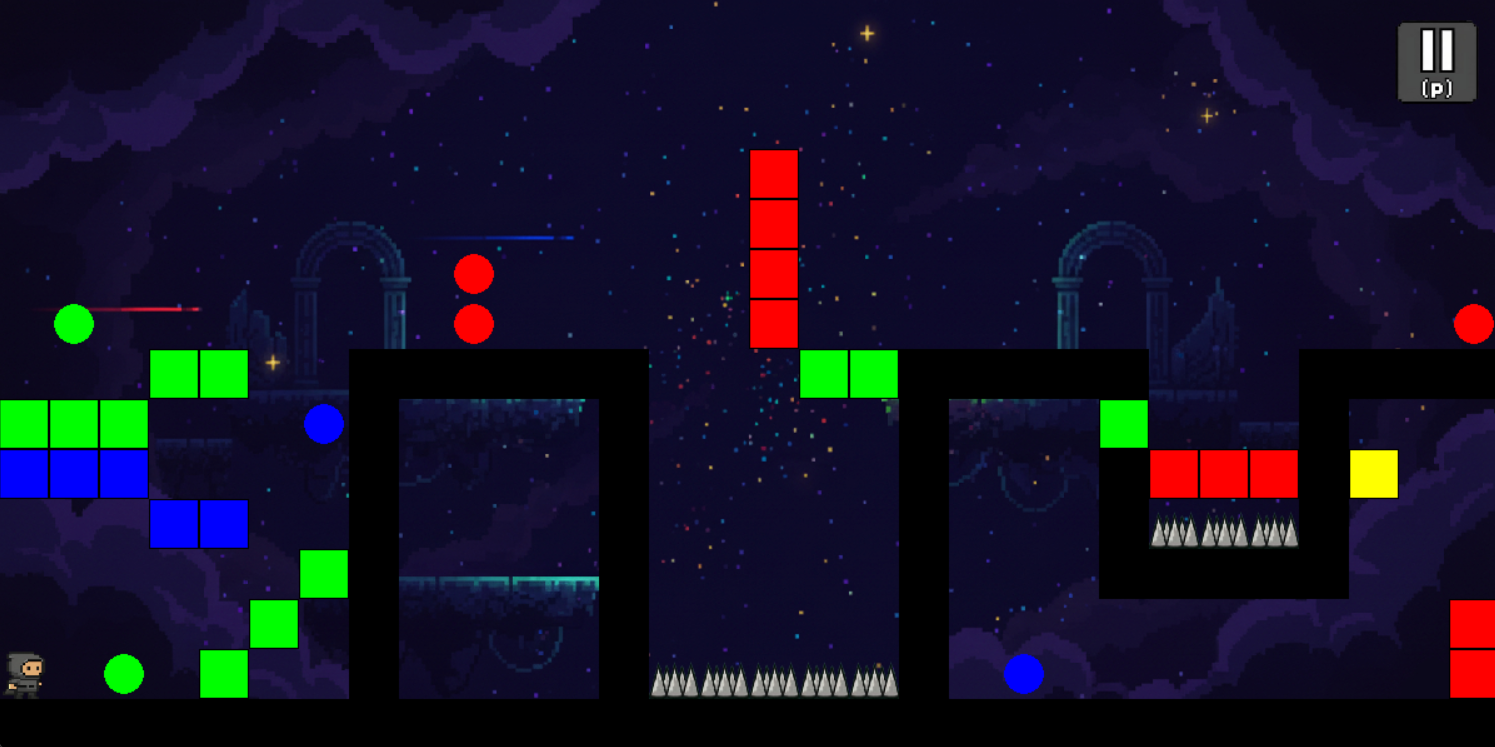
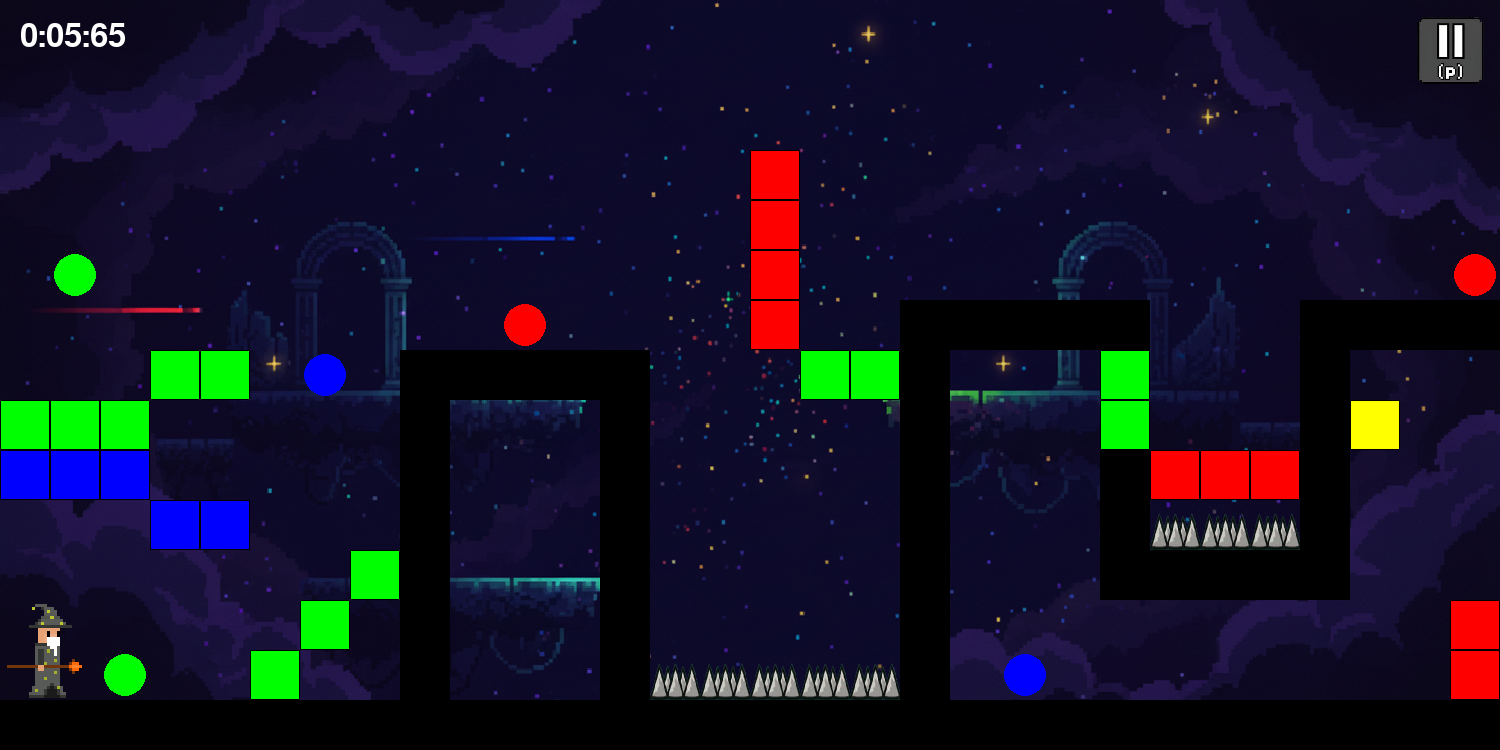
fix: chronometre dans le popup victoire

diff --git a/src/chronometre.py b/src/chronometre.py
@@ -7,6 +7,7 @@ class Chronometre:
         self.temps_debut = 0
         self.temps_pause_total = 0
         self.temps_pause_debut = 0
+        self.temps_final = 0
         self.actif = False
         self.en_pause = False
         self.font = pygame.font.SysFont(None, 48)
@@ -15,11 +16,14 @@ class Chronometre:
         """Démarre le chronomètre"""
         self.temps_debut = pygame.time.get_ticks()
         self.temps_pause_total = 0
+        self.temps_final = 0
         self.actif = True
         self.en_pause = False
     
     def arreter(self):
         """Arrête le chronomètre"""
+        if self.actif:
+            self.temps_final = self.obtenir_temps()
         self.actif = False
         self.en_pause = False
     
@@ -39,7 +43,7 @@ class Chronometre:
     def obtenir_temps(self):
         """Retourne le temps écoulé en millisecondes"""
         if not self.actif:
-            return 0
+            return self.temps_final
         
         temps_actuel = pygame.time.get_ticks()
         if self.en_pause:

diff --git a/src/popup.py b/src/popup.py
@@ -2,6 +2,7 @@ import pygame
 import os
 from config import LARGEUR_ECRAN, HAUTEUR_ECRAN
 from config_manager import ConfigManager
+from chronometre import Chronometre
 
 class Popup:
     """Gère l'affichage des popups de victoire et de défaite"""
@@ -107,13 +108,7 @@ class Popup:
         
         #afficher le temps
         if temps_ms > 0:
-            secondes_totales = temps_ms // 1000
-            millisecondes = (temps_ms % 1000) // 10
-            
-            if millisecondes < 10:
-                temps_texte = "Temps: " + str(secondes_totales) + ":0" + str(millisecondes)
-            else:
-                temps_texte = "Temps: " + str(secondes_totales) + ":" + str(millisecondes)
+            temps_texte = Chronometre.formater_temps(self, temps_ms)
             font_temps = pygame.font.Font(None, 40)
             temps_surface = font_temps.render(temps_texte, True, (0, 100, 0))
             temps_x = self.popup_rect.x + (self.popup_rect.width - temps_surface.get_width()) // 2

diff --git a/src/config.py b/src/config.py
@@ -1,5 +1,5 @@
 # Version du jeu
-VERSION_JEU = "v1.2.0"
+VERSION_JEU = "v1.2.1"
 
 # Dimensions
 TAILLE_CELLULE = 50
